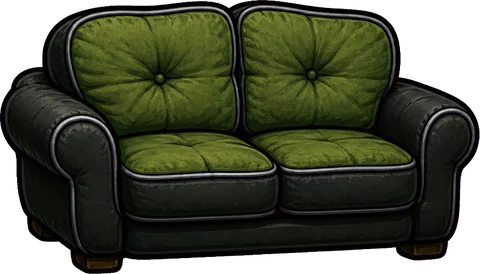
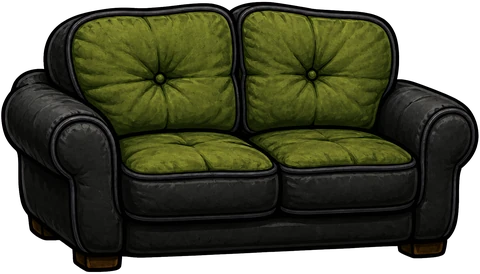
Repair V6.4 couch transparency

diff --git a/README.md b/README.md
@@ -8,6 +8,6 @@ Public hosted artwork for the PotatoPcTi_Super StreamElements widget.
 https://raw.githubusercontent.com/cmwashum-dot/potatopcti-super-widget-art/main/HostedArt
 ```
 
-[Test the idle character sprite](https://raw.githubusercontent.com/cmwashum-dot/potatopcti-super-widget-art/main/HostedArt/v5/assets/character/idle/idle_01.webp?v=6.3.0)
+[Test the idle character sprite](https://raw.githubusercontent.com/cmwashum-dot/potatopcti-super-widget-art/main/HostedArt/v5/assets/character/idle/idle_01.webp?v=6.4.0)
 
-V6.3 contains 37 optimized WebP assets. The walk cycle uses four forward-facing full-body poses with no mirrored footwear, and protected sprite swapping prevents blank action frames. Keep the repository public and preserve the existing folder structure so StreamElements can load the artwork.
+V6.4 contains 37 optimized WebP assets. The scenery couch has a repaired solid interior alpha matte, while the verified V6.3 walk cycle and protected sprite swapping remain unchanged. Keep the repository public and preserve the existing folder structure so StreamElements can load the artwork.